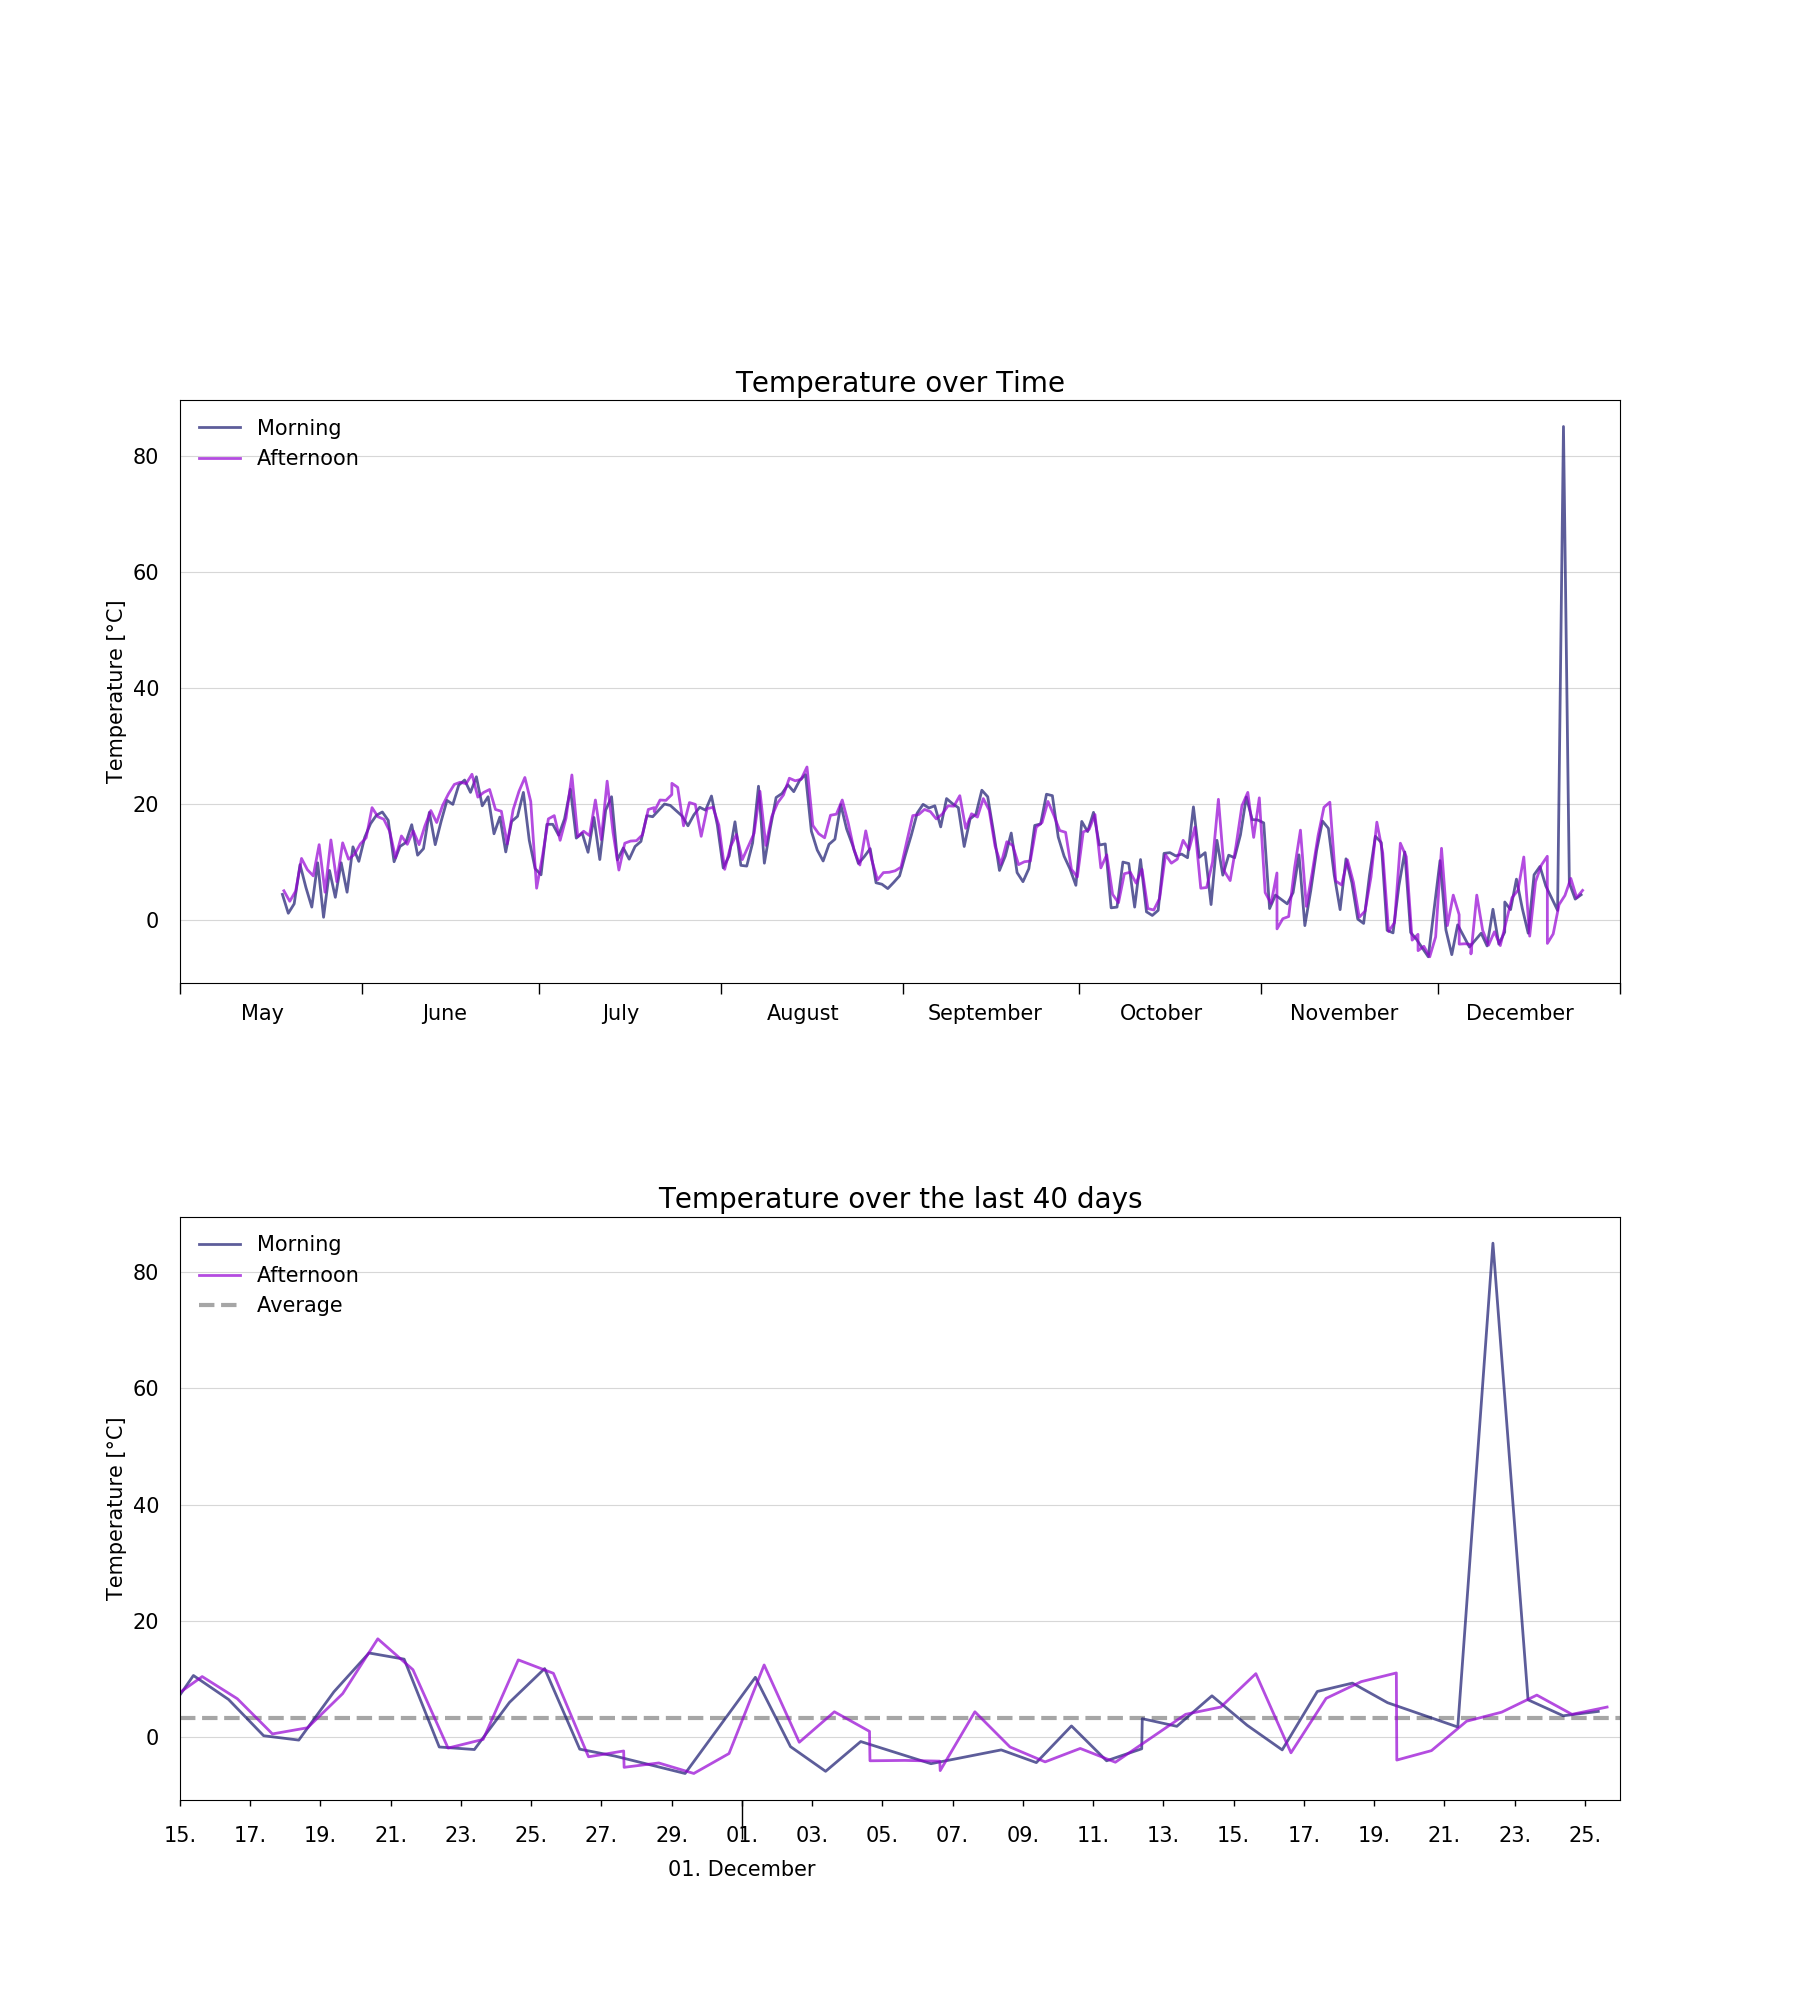
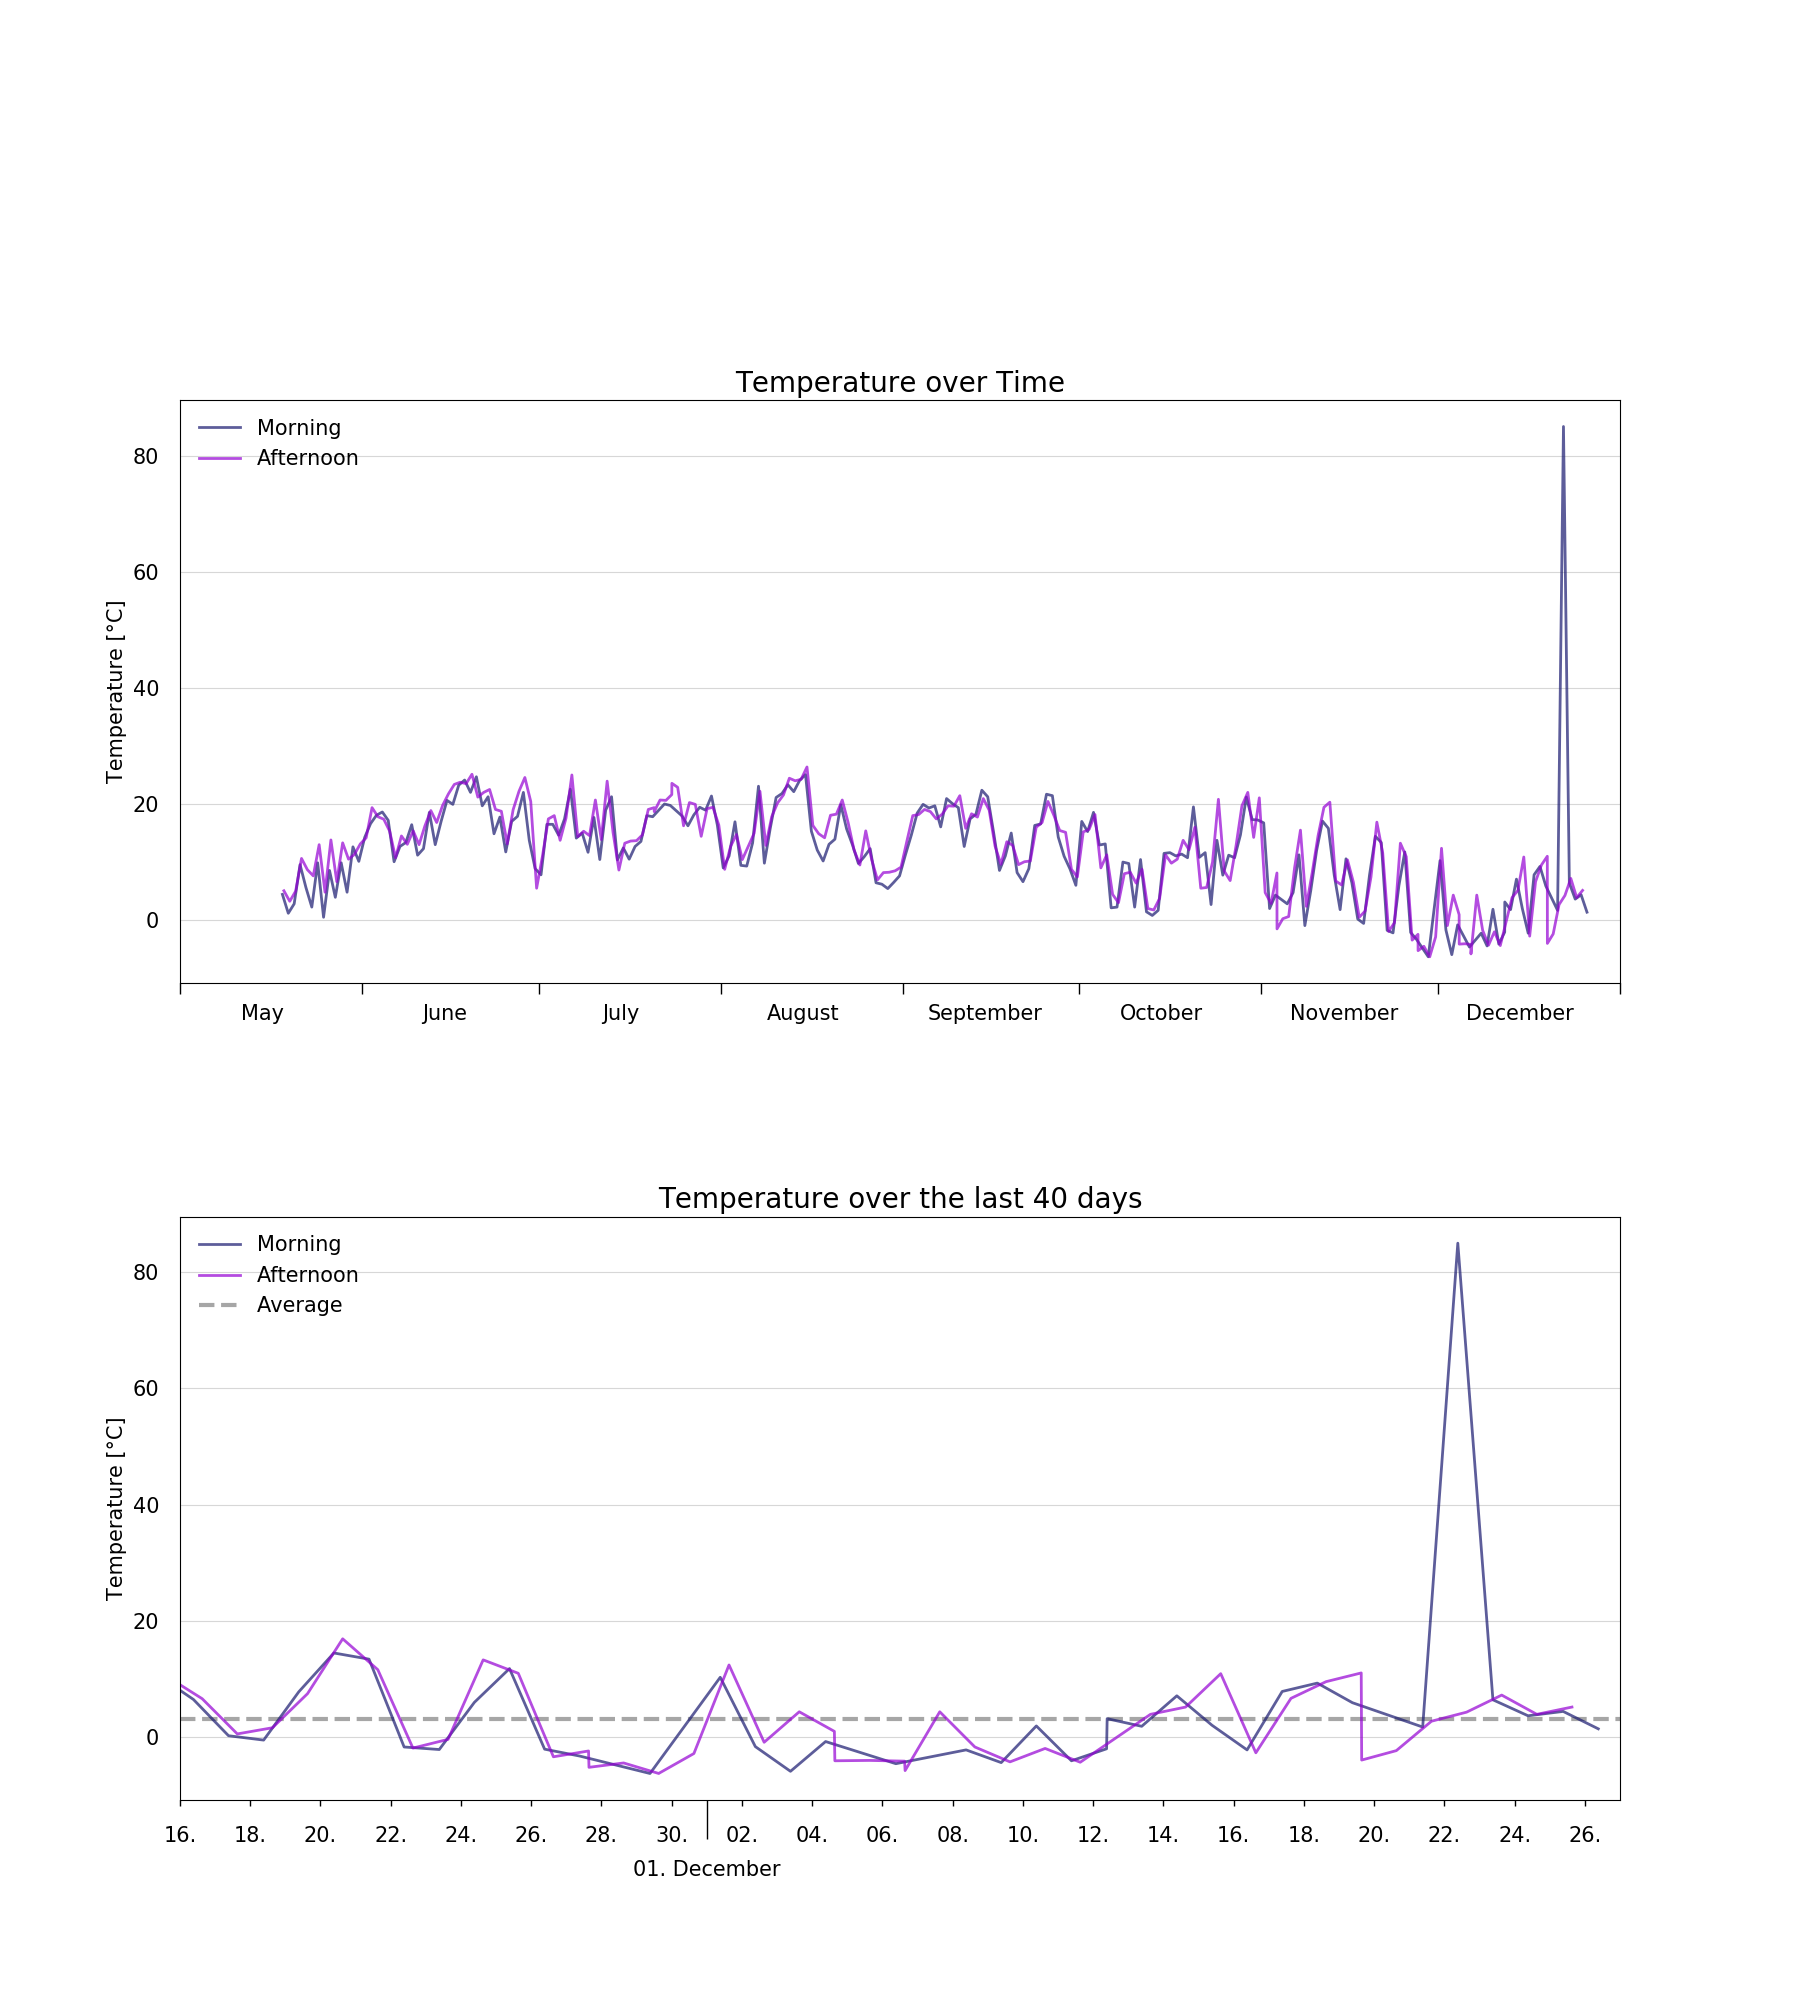
I'm a bot beep boop

Changed region(s): [[0.0933, 0.806, 0.6222, 0.899], [0.6222, 0.62, 0.9022, 0.899], [0.3733, 0.93, 0.4356, 0.961]]

diff --git a/resources/huette.md b/resources/huette.md
@@ -6,13 +6,13 @@ image: '/assets/img/'
 description: 'Live image from the Austrian alps'
 twitter_text: ' '
 ---
-## Latest image from 25 December 2021 at 15:10
+## Latest image from 26 December 2021 at  9:10
 <div class="huette">
   <div class="huette-image">
     <img src="{{ "/assets/img/huette.jpg" | prepend: site.baseurl }}">
   </div>
   <div class="huette-text">
-        <h2>Current Temperature: 5.125°C</h2>
+        <h2>Current Temperature: 1.375°C</h2>
         <p>A solar powered raspberry pi left alone in the wild is sending daily images and temperature data to this website. It should give you an impression about the current weather in the "Brixental".</p>
 
   </div>

diff --git a/rpi-script/huette.md b/rpi-script/huette.md
@@ -6,13 +6,13 @@ image: '/assets/img/'
 description: 'Live image from the Austrian alps'
 twitter_text: ' '
 ---
-## Latest image from 25 December 2021 at 15:10
+## Latest image from 26 December 2021 at  9:10
 <div class="huette">
   <div class="huette-image">
     <img src="{{ "/assets/img/huette.jpg" | prepend: site.baseurl }}">
   </div>
   <div class="huette-text">
-        <h2>Current Temperature: 5.125°C</h2>
+        <h2>Current Temperature: 1.375°C</h2>
         <p>A solar powered raspberry pi left alone in the wild is sending daily images and temperature data to this website. It should give you an impression about the current weather in the "Brixental".</p>
 
   </div>
